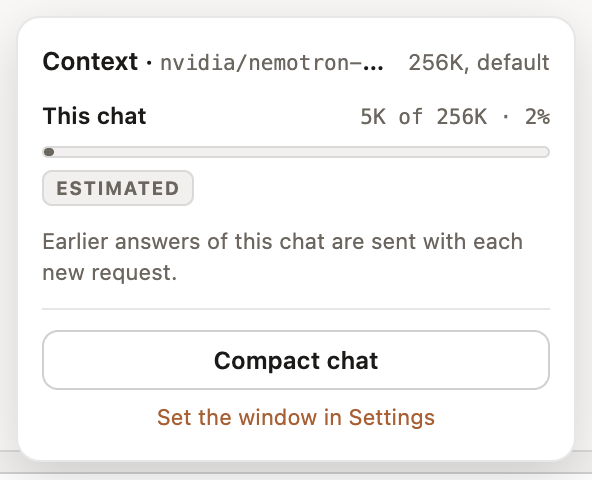
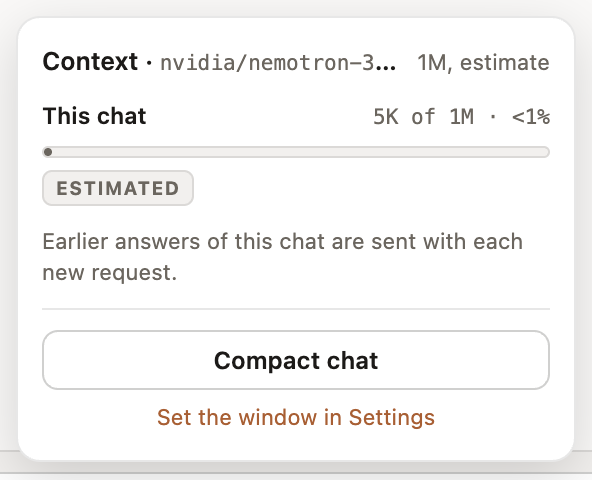
Update README layout and 1M context screenshots

diff --git a/README.md b/README.md
@@ -6,7 +6,7 @@
 
 <p align="center">
   <b>An open-source AI browser agent built directly into Chrome's Side Panel.</b><br>
-  Automate multi-step web tasks in your real browser using local or cloud models, with code-enforced safety gates that keep you in control.<br>
+  Execute real multi-step workflows inside your own browser using local or cloud models, with code-enforced safety gates that keep you in control.<br>
   Chrome Manifest V3 · Ollama · NVIDIA NIM · Gemini · Claude · OpenAI · Custom APIs
 </p>
 
@@ -28,9 +28,9 @@
 <br>
 
 <p align="center">
-  <img src="assets/images/tarka-hero.png" alt="Tarka running inside Chrome's Side Panel next to the ollama/ollama v0.40.16 GitHub release page, using nvidia/nemotron-3.5-super-vl-120b-a12b to verify the exact Linux amd64 archive filename" width="100%">
+  <img src="assets/images/tarka-notebook-fix.png" alt="Tarka editing cell 14 of setup-ollama.ipynb inside Chrome to remove sudo, running the cell with Shift+Enter, and verifying ollama version 0.40.11 using nvidia/nemotron-3.5-super-vl-120b-a12b" width="100%">
   <br>
-  <sub>Tarka verifying the latest Ollama release on GitHub from Chrome's Side Panel using <code>nvidia/nemotron-3.5-super-vl-120b-a12b</code>.</sub>
+  <sub>Fixing a failing browser notebook cell, running it with <code>Shift+Enter</code>, and verifying the command output using <code>nvidia/nemotron-3.5-super-vl-120b-a12b</code>.</sub>
 </p>
 
 > [!NOTE]
@@ -40,7 +40,6 @@
 
 <p align="center">
   <a href="#highlights">Highlights</a> ·
-  <a href="#plan-act-and-verify">Plan &amp; Verify</a> ·
   <a href="#work-inside-real-web-apps">Real Workflows</a> ·
   <a href="#manage-long-sessions">Sessions</a> ·
   <a href="#safety-enforced-in-code">Safety</a> ·
@@ -82,42 +81,19 @@ Session history, keys, and redacted logs never leave your browser storage except
 
 ---
 
-## Plan, act, and verify
-
-Give Tarka a goal from the Side Panel and watch it break multi-step tasks into visible steps.
-You can pause or stop a run at any time, inspect every action taken, and check the final verified answer with model call and token counts.
-
-<table>
-<tr>
-<td width="50%"><img src="assets/images/tarka-live-plan.png" alt="Tarka Side Panel mid-run showing a three-step plan checklist, active browser status, and Pause and Stop Task controls"></td>
-<td width="50%"><img src="assets/images/tarka-github-done.png" alt="Tarka Side Panel after completion showing the Done card, Playwright star count, v1.65.1 release link, and call and token summary"></td>
-</tr>
-<tr>
-<td align="center"><sub>Live progress: numbered plan checklist with Pause and Stop controls.</sub></td>
-<td align="center"><sub>Verified completion: direct answer, source links, and step/token usage.</sub></td>
-</tr>
-</table>
-
----
-
 ## Work inside real web apps
 
-Tarka handles multi-step interaction across code notebooks, cookie banners, forms, and long pages, and can export structured results as downloadable files (`certifications.json`, CSV, Markdown tables).
-
-<p align="center">
-  <img src="assets/images/tarka-notebook-fix.png" alt="Tarka editing cell 14 of setup-ollama.ipynb in the browser to remove sudo, running it with Shift+Enter, and confirming ollama version 0.40.11" width="100%">
-  <br>
-  <sub>Fixing a failing notebook cell, executing it with <code>Shift+Enter</code>, and reporting the verified output.</sub>
-</p>
+Tarka navigates live pages, dismisses overlapping banners, fills and runs interactive editors, and extracts structured records into downloadable files (`certifications.json`, CSV, Markdown tables).
+During execution, you can inspect the step plan, pause or stop a run at any time, and review exact model call and token counts when the task completes.
 
 <table>
 <tr>
-<td width="50%"><img src="assets/images/tarka-cookie-accept.png" alt="Tarka dismissing an overlapping cookie banner on an article page and reading the headline underneath"></td>
+<td width="50%"><img src="assets/images/tarka-cookie-accept.png" alt="Tarka Side Panel after accepting cookies on an article page and extracting the underlying headline"></td>
 <td width="50%"><img src="assets/images/tarka-json-export.png" alt="Tarka Side Panel displaying a formatted JSON preview card with Copy button after extracting all ten certifications into certifications.json"></td>
 </tr>
 <tr>
 <td align="center"><sub>Dismiss overlays and cookie banners to reach underlying content.</sub></td>
-<td align="center"><sub>Extract page records into clean, downloadable JSON files.</sub></td>
+<td align="center"><sub>Extract structured page records into clean, downloadable JSON files.</sub></td>
 </tr>
 </table>
 
@@ -125,12 +101,12 @@ Tarka handles multi-step interaction across code notebooks, cookie banners, form
 
 ## Manage long sessions
 
-Long multi-turn sessions show live context window usage in the composer ring.
-When a chat grows, you can compact earlier turns into a structured turn summary while keeping the workspace ready for your next follow-up.
+Tarka supports long-context models up to **1M tokens** (`1,000,000` tokens), reading context limits automatically from provider metadata or per-model overrides in Settings (for example `200K` or `1M`).
+The composer displays a live usage ring with warnings at `70%` and `90%`, and lets you compact earlier turns into a structured summary whenever a conversation grows.
 
 <table>
 <tr>
-<td width="50%"><img src="assets/images/tarka-context-card.png" alt="Context meter popover showing 5K of 256K tokens used and a Compact chat action button"></td>
+<td width="50%"><img src="assets/images/tarka-context-card.png" alt="Context meter popover showing token usage against the configured context window and a Compact chat button"></td>
 <td width="50%"><img src="assets/images/tarka-chat-compacted.png" alt="Chat compacted divider with an expandable summary of the prior turn including goal, answer, sites used, and files"></td>
 </tr>
 <tr>
@@ -177,34 +153,18 @@ Read the full threat model and disclosure process in [SECURITY.md](SECURITY.md).
 
 ## Bring any model
 
-Switch providers at any time in **Settings**, fetch live model lists directly from your endpoint, or add any self-hosted vLLM, SGLang, relay, or proxy through **Custom model API**.
+Switch providers at any time in **Settings** (`Ollama`, `NVIDIA NIM`, `Google Gemini`, `Anthropic Claude`, `OpenAI / Compatible`, `OpenRouter`, `AgentRouter`), fetch live model lists directly from your endpoint, or add any self-hosted vLLM, SGLang, LISA, or relay server through **Custom model API**.
 
 <table>
 <tr>
-<td width="50%"><img src="assets/images/tarka-settings.png" alt="Tarka Settings tab in light mode showing Developer mode toggle, LLM Provider dropdown, Base API URL, API key field, Fetch Models button, context window, and step limits"></td>
+<td width="50%"><img src="assets/images/tarka-settings.png" alt="Tarka Settings tab in light mode showing Developer mode toggle, LLM Provider dropdown, Base API URL, API key field, Fetch Models button, 1M-capable context window input, and step limits"></td>
 <td width="50%"><img src="assets/images/tarka-custom-api.png" alt="Custom model API modal showing Provider ID, Display name, Base URL, OpenAI Chat Completions and Anthropic Messages protocol selector, and model ID controls"></td>
 </tr>
 <tr>
-<td align="center"><sub>Settings tab: local or cloud providers, timeouts, and context window controls.</sub></td>
+<td align="center"><sub>Settings tab: local or cloud providers, context window up to 1M+, and step limits.</sub></td>
 <td align="center"><sub>Custom model API dialog supporting OpenAI Chat Completions and Anthropic Messages protocols.</sub></td>
 </tr>
 </table>
-
-### Supported providers and fallback model IDs
-
-The model picker fetches live models from the provider you configure.
-If a live fetch fails or returns nothing, Tarka falls back to the built-in lists below (`getFallbackModels` in [src/background/llm/models.ts](src/background/llm/models.ts)); custom endpoints use the model IDs you save in the dialog.
-
-| Provider | Runtime | Fallback model list |
-| --- | --- | --- |
-| **Ollama** | Local / Offline | `qwen3.8:27b-mlx`, `qwen2.5:14b`, `llama3.1:8b`, `gemma2:9b` |
-| **Google Gemini** | Cloud API | `gemini-2.0-flash`, `gemini-2.0-flash-lite`, `gemini-1.5-flash`, `gemini-1.5-pro`, `gemini-2.0-pro-exp-02-05`, `gemini-1.5-flash-8b` |
-| **Anthropic** | Cloud API | `claude-3-5-sonnet-20241022`, `claude-3-5-haiku-20241022` |
-| **OpenAI / OpenAI-compatible** | Cloud API (Groq default for compatible) | `gpt-4o`, `gpt-4o-mini`, `llama-3.3-70b-versatile`, `llama-3.1-8b-instant` |
-| **NVIDIA NIM** | Cloud / Enterprise | `meta/llama-3.3-70b-instruct`, `deepseek-ai/deepseek-r1`, `nvidia/llama-3.1-nemotron-70b-instruct`, `meta/llama-3.1-405b-instruct`, `mistralai/mixtral-8x22b-instruct`, `qwen/qwen2.5-72b-instruct`, `nvidia/nemotron-4-340b-instruct` (plus vision-language models such as `nvidia/nemotron-3.5-super-vl-120b-a12b`) |
-| **OpenRouter** | Multi-Provider Gateway | `anthropic/claude-3.5-sonnet`, `meta-llama/llama-3.3-70b-instruct`, `google/gemini-2.0-flash-001`, `deepseek/deepseek-r1`, `deepseek/deepseek-chat`, `openai/gpt-4o-mini` |
-| **AgentRouter** | Multi-Provider Gateway | `claude-3-5-sonnet`, `gpt-4o`, `deepseek-r1`, `llama-3.3-70b`, `claude-3-haiku` |
-| **Custom Endpoints** | Local or Hosted | User-saved model IDs (self-hosted vLLM, SGLang, LISA, or private proxies) |
 
 ---
 
